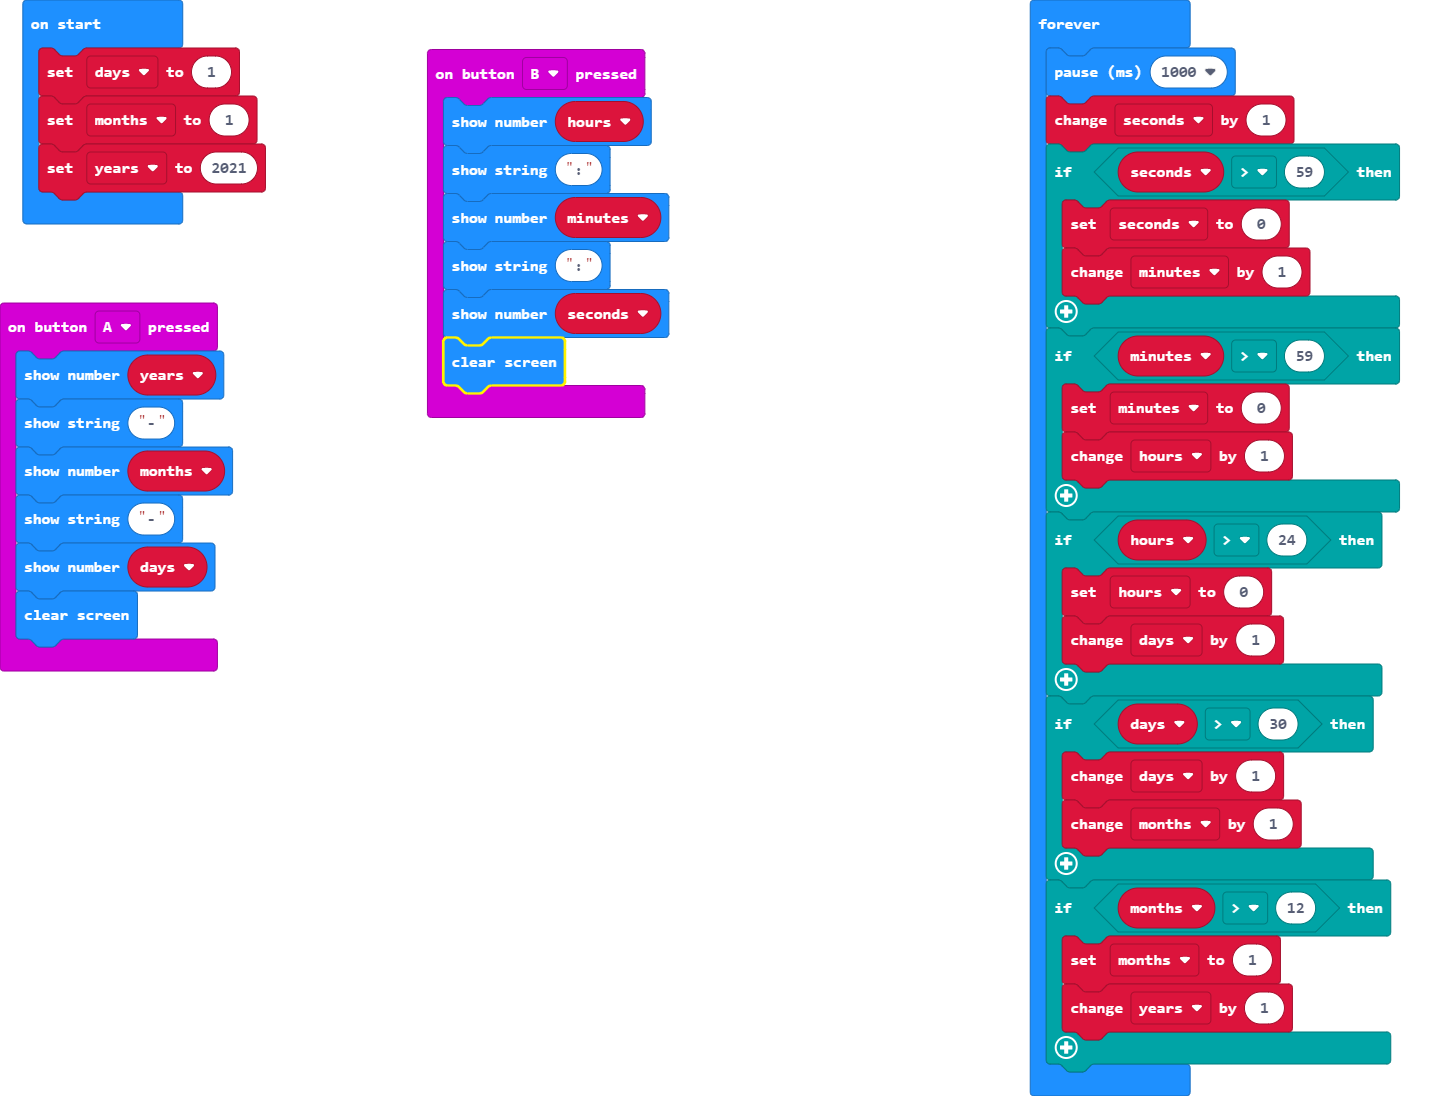
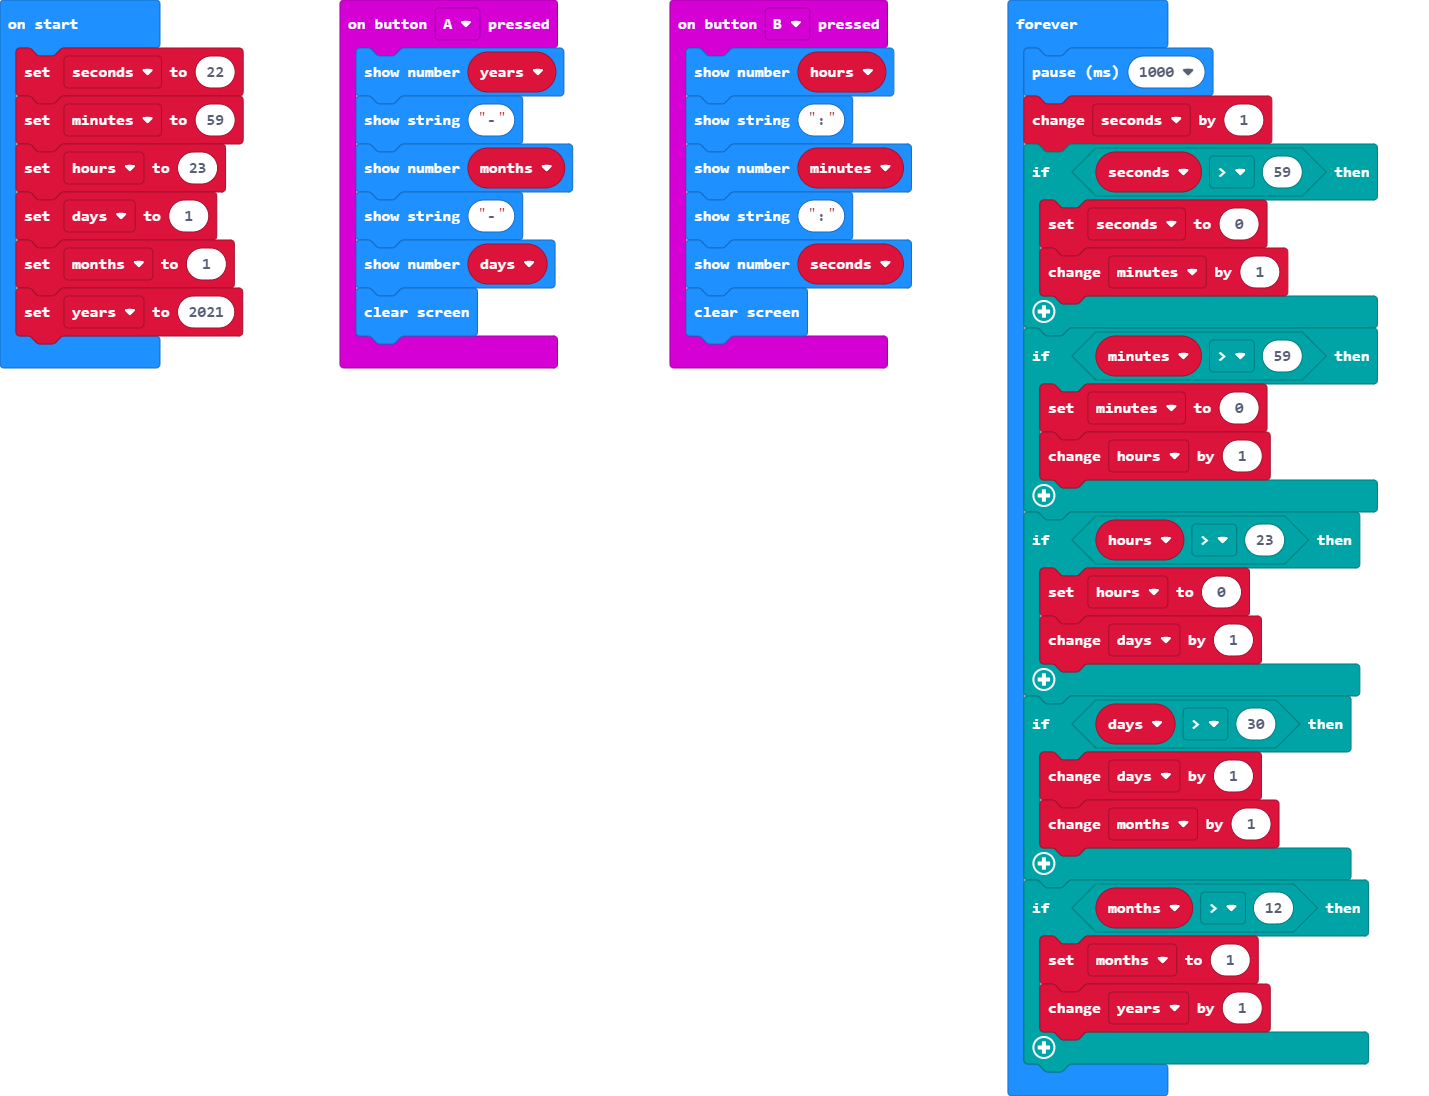
Update pxt.json, main.blocks, main.ts

diff --git a/main.ts b/main.ts
@@ -14,12 +14,15 @@ input.onButtonPressed(Button.B, function () {
     basic.showNumber(seconds)
     basic.clearScreen()
 })
-let seconds = 0
-let minutes = 0
-let hours = 0
 let years = 0
 let months = 0
 let days = 0
+let hours = 0
+let minutes = 0
+let seconds = 0
+seconds = 22
+minutes = 59
+hours = 23
 days = 1
 months = 1
 years = 2021
@@ -34,7 +37,7 @@ basic.forever(function () {
         minutes = 0
         hours += 1
     }
-    if (hours > 24) {
+    if (hours > 23) {
         hours = 0
         days += 1
     }
